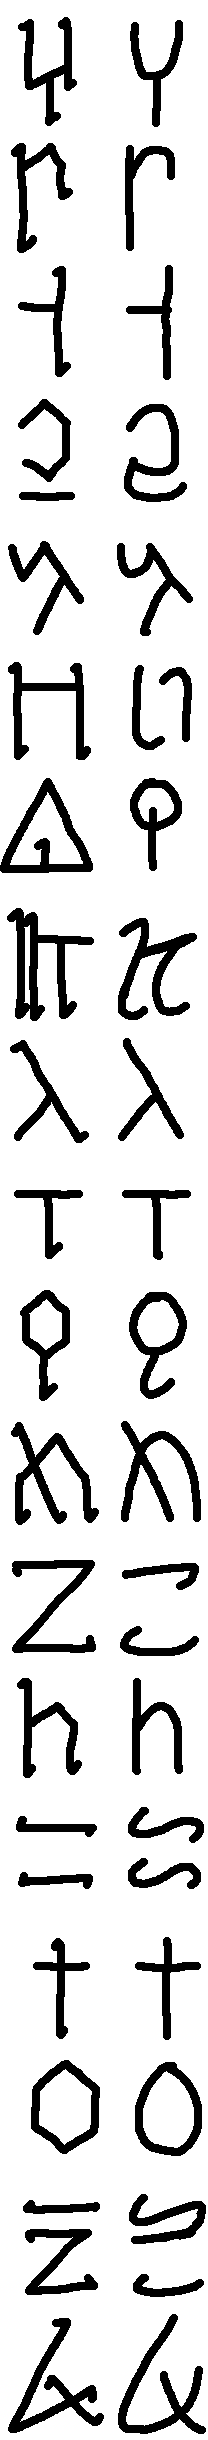
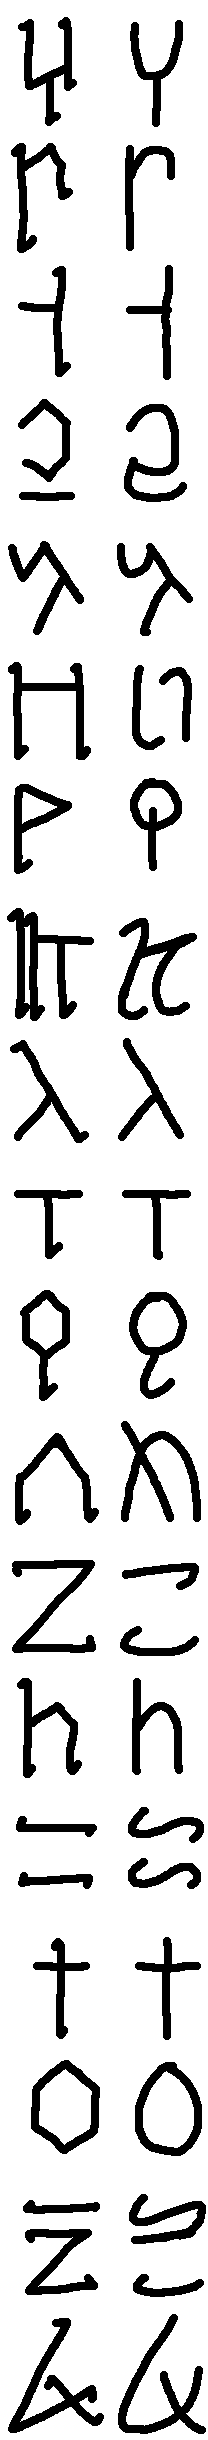
changed design of eremoran A and H

Changed region(s): [[0.0, 0.3115, 0.4327, 0.3738], [0.0577, 0.5607, 0.3173, 0.623]]

diff --git a/namei/namei.html b/namei/namei.html
@@ -87,7 +87,7 @@
 <img src="../img/akkaha.apng" width="350" alt="The Akkaha river basin.">
 <div class="desc">The Akkaha river basin.</div>
 <p>
-	The <strong>Akkaha</strong> is a major <a href="#pankair">Pankairian</a> river. 
+	The <strong>Akkaha</strong> (Eremoran: <span class="eremoran">akkaha</span> <i>akkaha</i>) is a major <a href="#pankair">Pankairian</a> river. 
 	It is 2,344 km long, just longer than the Colorado. 
 	Its Hausdorff dimension is approximately 1.18.<!--https://en.wikipedia.org/wiki/Minkowski–Bouligand_dimension , ln(1537)/ln(491)-->
 	On its mouth is situated <a href="#eremor">Eremor</a>. 

diff --git a/css/eremoran.css b/css/eremoran.css
@@ -17,6 +17,7 @@
 }
 /* Eremoran Font OwO
 https://stackoverflow.com/a/24990647/2579798
+https://fontstruct.com/fontstructions/show/1995779/eremoran
 https://transfonter.org/
 */
 @font-face {
